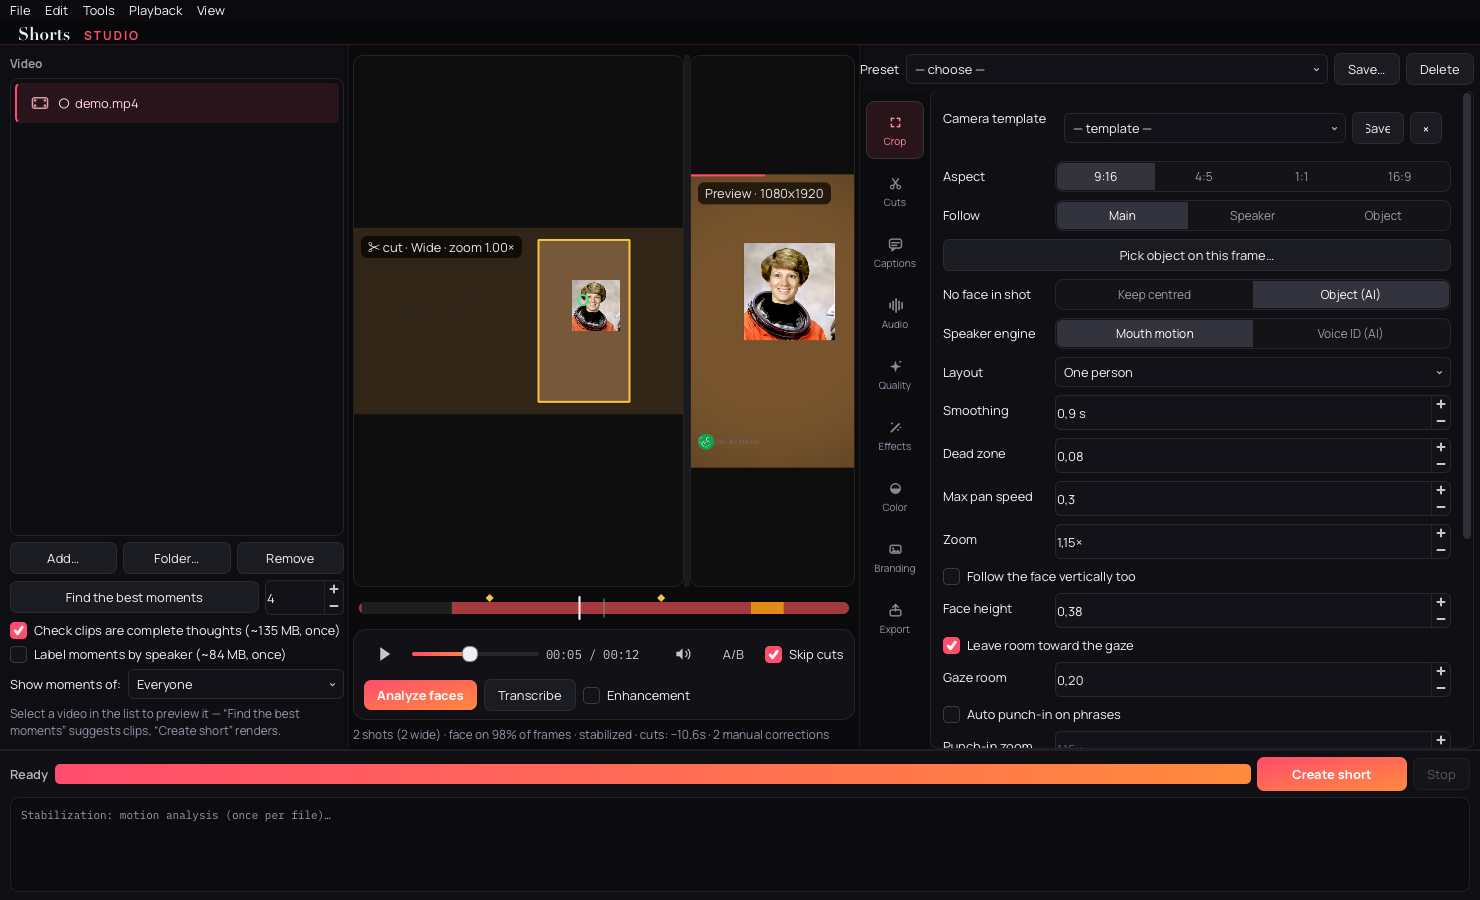
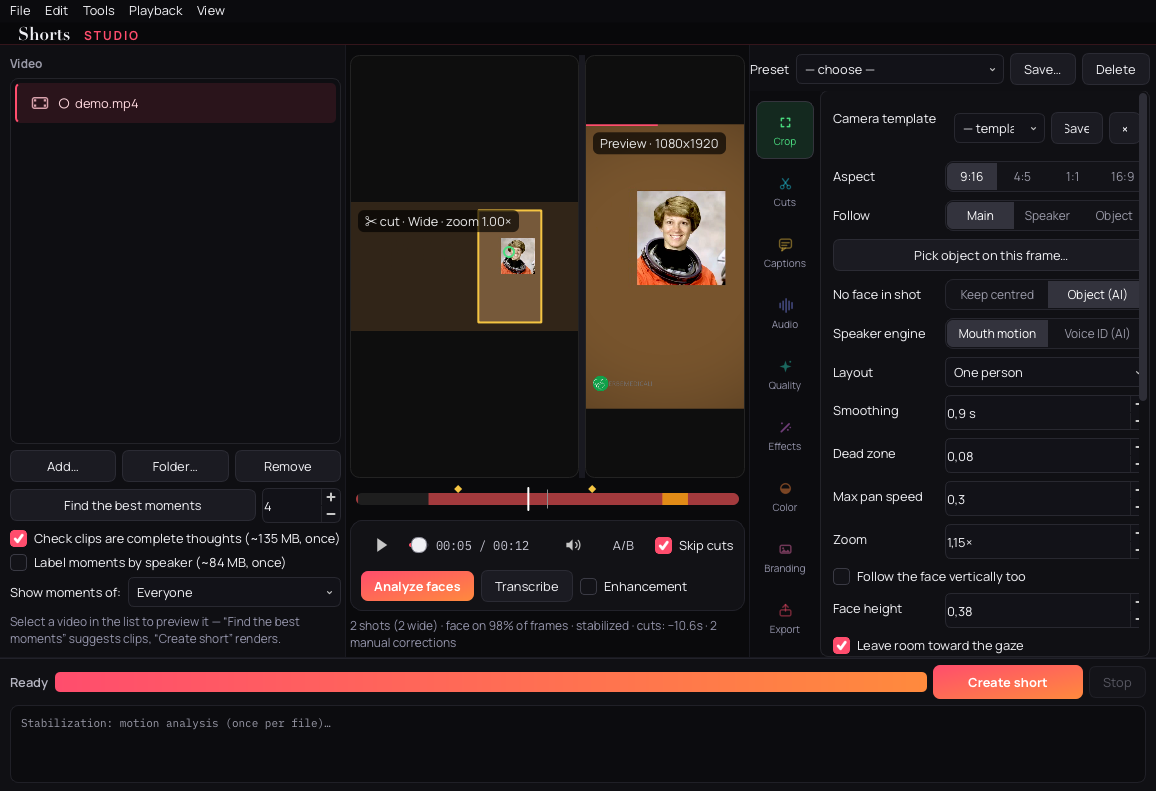
Spectrum rail: every settings tab owns a hue
The DaVinci-style page-bar move, ours: each rail tab gets one rail-*
hue (Crop green, Cuts cyan, Captions amber, Audio indigo, Quality
teal, Effects fuchsia, Color amber, Branding pink) shown as painted
icon at 45% alpha at rest, full hue icon + label + tinted pill when
active. Export keeps Signal Coral — it is the render action, same
voice as Create short.

The spectrum lives only inside the rail: panels keep the neutral +
coral system, so a green Crop tab never tints its controls. DESIGN.md
records the Spectrum Rail Rule and the rail-* tokens.

Generated with [Devin](https://devin.ai)

diff --git a/src/face_reframe/app/window.py b/src/face_reframe/app/window.py
@@ -1262,9 +1262,11 @@ class MainWindow(QMainWindow):
         tabs.addTab(self._page(f), "Export")
         return col
 
-    RAIL = [("crop", "Crop"), ("cut", "Cuts"), ("captions", "Captions"), ("audio", "Audio"),
-            ("quality", "Quality"), ("effects", "Effects"), ("color", "Color"),
-            ("brand", "Branding"), ("export", "Export")]
+    RAIL = [("crop", "Crop", "#4ade80"), ("cut", "Cuts", "#22d3ee"),
+            ("captions", "Captions", "#f5c542"), ("audio", "Audio", "#818cf8"),
+            ("quality", "Quality", "#2dd4bf"), ("effects", "Effects", "#e879f9"),
+            ("color", "Color", "#ff8a3d"), ("brand", "Branding", "#f472b6"),
+            ("export", "Export", "#ff4d6d")]
 
     def _build_rail(self, tabs):
         w = QWidget()
@@ -1274,11 +1276,14 @@ class MainWindow(QMainWindow):
         lay.setContentsMargins(4, 10, 4, 10)
         lay.setSpacing(3)
         self._rail_btns = []
-        for i, (icon, name) in enumerate(self.RAIL):
+        for i, (icon, name, accent) in enumerate(self.RAIL):
             b = QToolButton()
             b.setCheckable(True)
             b.setObjectName("railBtn")
-            b.setIcon(_rail_icon(icon))
+            b.setIcon(_rail_icon(icon, accent))
+            c = QColor(accent)
+            b.setStyleSheet("QToolButton:checked { color: %s; background: rgba(%d, %d, %d, 36); }"
+                            % (accent, c.red(), c.green(), c.blue()))
             b.setIconSize(QSize(19, 19))
             b.setText(tr(name))
             b.setToolButtonStyle(Qt.ToolButtonTextUnderIcon)
@@ -4415,11 +4420,13 @@ def _icon(kind: str) -> QIcon:
     return QIcon(_pixmap(kind, "#c7c7c7"))
 
 
-def _rail_icon(kind: str) -> QIcon:
-    """Two-state icon: muted normally, accent when the rail tab is active."""
+def _rail_icon(kind: str, accent: str = "#ff8fa3") -> QIcon:
+    """Two-state icon: the tab's own hue at half alpha normally, full when active."""
     ic = QIcon()
-    ic.addPixmap(_pixmap(kind, "#8b8b98"), QIcon.Normal, QIcon.Off)
-    ic.addPixmap(_pixmap(kind, "#ff8fa3"), QIcon.Normal, QIcon.On)
+    dim = QColor(accent)
+    dim.setAlphaF(0.45)
+    ic.addPixmap(_pixmap(kind, dim.name(QColor.HexArgb)), QIcon.Normal, QIcon.Off)
+    ic.addPixmap(_pixmap(kind, accent), QIcon.Normal, QIcon.On)
     return ic
 
 

diff --git a/DESIGN.md b/DESIGN.md
@@ -23,6 +23,15 @@ colors:
   success: "#00b140"
   warn: "#f5c542"
   pick-yellow: "#FFD400"
+  rail-crop: "#4ade80"
+  rail-cut: "#22d3ee"
+  rail-captions: "#f5c542"
+  rail-audio: "#818cf8"
+  rail-quality: "#2dd4bf"
+  rail-effects: "#e879f9"
+  rail-color: "#ff8a3d"
+  rail-brand: "#f472b6"
+  rail-export: "#ff4d6d"
 typography:
   body:
     fontFamily: "Manrope, sans-serif"
@@ -144,6 +153,11 @@ to ghost or a tint.
 **The Tint, Not Paint Rule.** Selection and hover states dye surfaces with
 coral-tinted darks (`tint-*`), never solid coral fills behind dark text.
 
+**The Spectrum Rail Rule.** The rail is the only multi-hue surface: each
+settings tab owns exactly one `rail-*` hue, expressed as icon, label and
+pill tint — never as a fill behind panel content. Inside a tab's page,
+that hue does not bleed: controls keep the neutral + coral system.
+
 ## Typography
 
 **Body Font:** Manrope (embedded variable weight, OFL — bundled in the app,
@@ -236,9 +250,13 @@ composer, social preview): those must show true colours.
 - Selected: `tint-selected` surface + 3px coral bar at the leading edge.
 - Data glyphs (`↳ 🔥 👤`) are content markers, allowed inline in labels.
 
-### Rail Tabs
-- 56px icon + 11px label column; checked = `tint-selected` pill + coral icon.
-- Icons are painted strokes, one weight, coral when active.
+### Rail Tabs — the spectrum rail
+- 56px icon + 11px label column; each tab OWNS one hue (`rail-*` tokens).
+  Off state = the tab's hue at 45% alpha; checked = full-hue icon, label and
+  pill tint (`rgba(hue, 36/255)`). Like Resolve's page bar — the rail is the
+  app's spectrum, the panel stays neutral.
+- Export keeps Signal Coral: it is the render action, same voice as
+  "Create short". This is the only place a second hue-family is structural.
 
 ### Inputs
 - `ink-raise` fill, `ink-edge` border, `rounded.sm`; focus swaps border to
@@ -269,7 +287,8 @@ composer, social preview): those must show true colours.
   panel — elide, wrap, or shorten the label.
 - **Don't** use `text-faint` for information the user needs to act on —
   hints explain, secondary text instructs.
-- **Don't** add a second accent hue for decoration; semantic colors only.
+- **Don't** add a second accent hue for decoration; semantic colors and the
+  rail hues only — the rail's spectrum lives only inside the rail.
 - **Don't** put borders above 1px or offset shadows on cards — depth is
   tonal layering, not chrome.
 - **Don't** grow the type past 13px for chrome; the preview is the display.
